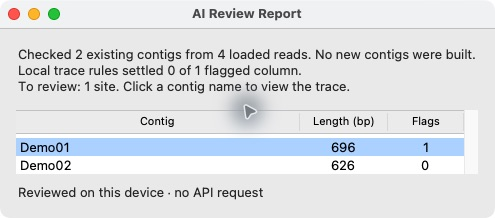
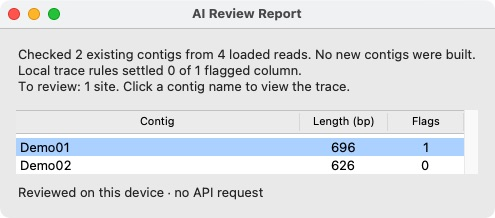
Explain command-line batch processing and refresh review screenshots

Changed region(s): [[0.4545, 0.4128, 0.5455, 0.6055]]

diff --git a/README.md b/README.md
@@ -84,7 +84,28 @@ Use **AI Review** to check flagged bases against their chromatograms.
 - **Black flag:** AUTO flagged the position. The mark stays after an automatic correction, and a corrected position no longer counts in **Flags**.
 - **Teal underline:** namiyomi applied an automatic decision at that position.
 
-Use **Edit > Undo** to undo the assembly and review together. See the [trace review guide](docs/TRACE_REVIEW.md) for how decisions are made and the [batch and MCP guide](docs/BATCH.md) for optional command-line and MCP setup.
+Use **Edit > Undo** to undo the assembly and review together. See the [trace review guide](docs/TRACE_REVIEW.md) for how decisions are made.
+
+### Process a folder of AB1 files from the command line
+
+Use the batch command to trim reads, assemble them by sample, and export FASTA in one run. For example, `sample07_F.ab1` and `sample07_R.ab1` belong to the same group because the names match before the first `_`. Use each prefix for one specimen and one locus. If your filenames do not follow this pattern, supply a CSV to define the groups.
+
+**Try the included demo** with Python 3.10 or later and the extracted source code ZIP. In a terminal, open the folder that contains `README.md` and run these two lines in order. If your system uses `python3` (Mac) or `py -3` (Windows), use that in place of `python`. [Download the v0.2.0 source code ZIP](https://github.com/yoneoka-katsuhiro/namiyomi/archive/refs/tags/v0.2.0.zip)
+
+```sh
+python -m pip install -r requirements/batch.txt
+python src/batch.py --input demo --output demo-results
+```
+
+Install the dependency once. For your own data, replace `demo` with the folder containing your AB1 files and `demo-results` with a new output folder. Your original AB1 files stay intact.
+
+Look in `demo-results` for:
+
+- **`auto.fasta`** with the assembled sequences from the demo.
+- **`project.json`**, which you can open in namiyomi with **File > Import Previous Project** to inspect the traces.
+- **`summary.tsv`** with the assembly results and contigs that need review.
+
+Add `--review` to check flagged positions against their traces on your device and save the decisions to `review.tsv`. These steps require no API key or MCP setup. For CSV grouping and optional online AI review, see the [batch guide](docs/BATCH.md#command-line).
 
 ### Find a sequence on either strand
 
